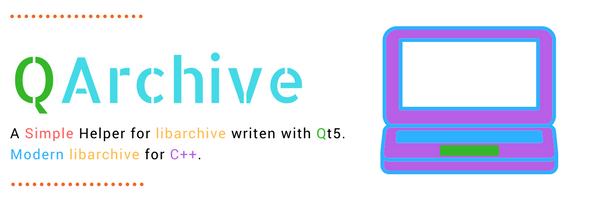
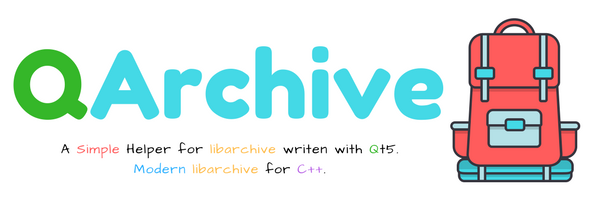
updating poster!

diff --git a/README.md b/README.md
@@ -1,6 +1,6 @@
 
 <p align="center">
-  <img src=".img/poster.png" height="250px" alt="QArchive Poster">
+  <img src=".img/poster.png" height="220px" alt="QArchive Poster">
 </p>
 
 
